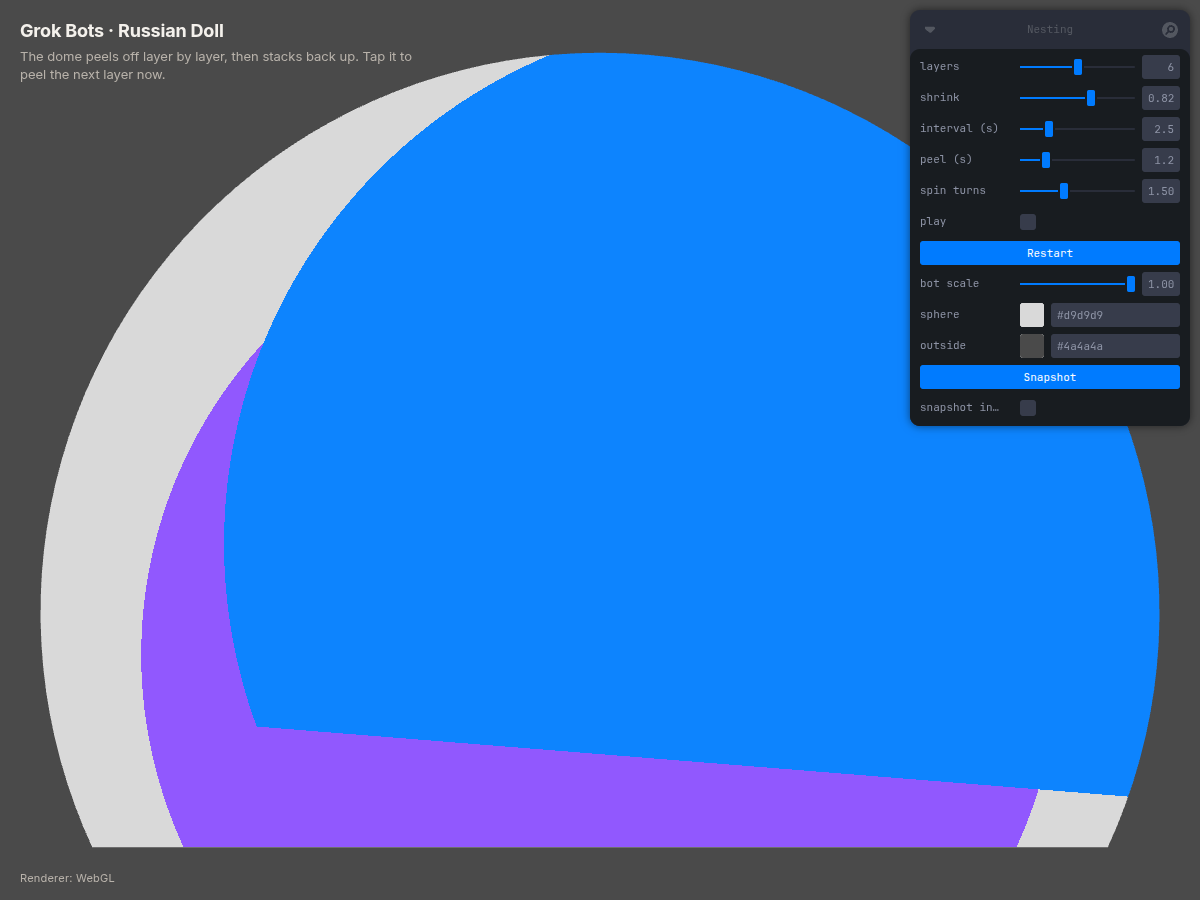
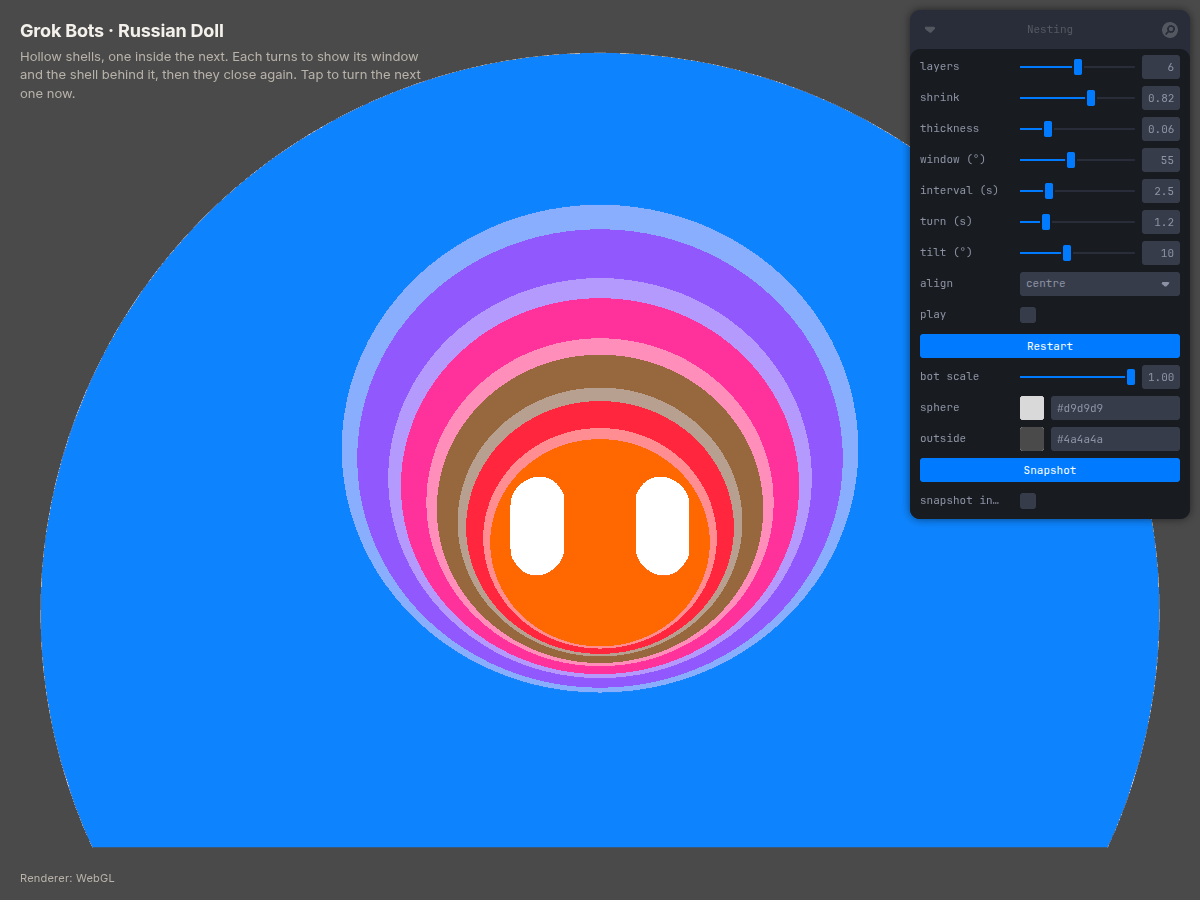
Nesting: README section for the rotating shells (shell build, tones, layers, align, tilt, cascade, Canvas 2D painter, controls, hooks, verification); docs/screenshot-nesting.png = fully open

diff --git a/README.md b/README.md
@@ -13,71 +13,93 @@ and spun.
 Built with Vite, React, TypeScript, three.js, React Three Fiber, drei, Rapier
 (`@react-three/rapier`) and Leva.
 
-## This branch: `nesting` — Russian doll
+## This branch: `nesting` — Russian doll shells
 
 Branched from `racetrack` (head `badf622`). The Sphere, its colours and the
-transparent Snapshot stay; the track and the racers go. One dome bot fills
-the Sphere — its silhouette *is* the Sphere's — and every few seconds the
-outer layer spins, lifts, slides off to the side and fades, revealing the
-same dome smaller and in the next token colour underneath. After the
-smallest one, the layers fly back in reverse order and the loop restarts.
-Live at <https://monish-khara.github.io/grok-bot-physics/nesting/>.
+transparent Snapshot stay; the track and the racers go. A stack of hollow
+dome shells sits one inside the next, the outermost filling the Sphere (its
+silhouette *is* the Sphere's) and a solid dome bot at the core. Each shell has
+a round window on its back. Every few seconds the outermost shell turns 180°
+in place so its window comes round to the camera and you look through it at
+the next shell's face and eyes; then that one turns, and so on to the core.
+Then they close again from the inside out, and the loop restarts. Live at
+<https://monish-khara.github.io/grok-bot-physics/nesting/>.
 
-![Mid-peel: the blue outer dome sliding off, the violet layer beneath it](docs/screenshot-nesting.png)
+![Fully open: every shell turned, windows nested, the orange core at the centre](docs/screenshot-nesting.png)
 
 - **Dome body** (`src/data/bodies.ts`, `dome`): none of the ten toolkit
   shapes is a dome, so this branch adds one — the unit sphere sliced flat at
   `y = CHORD` (`-0.42`, the same cut as `src/sphereShape.ts`), built as a
-  surface of revolution from an analytic profile through the existing
-  `revolve` path (the refit closes the tip with a tangent sphere cap, which
-  for a circle is the circle). Scaled to the Sphere's radius with its base on
-  the Sphere's floor it fills the interior exactly: no gap at the base, no
-  grey rim. Eyes are white pills 0.6 R apart and 0.56 R up, as in the
-  reference; because the surface leans back ~40° there, the pills are
-  stretched to read at the reference's proportions from the front and use a
-  new `upright` eye-frame option so their height axis stays vertical on
-  screen instead of splaying with the surface's own up.
-- **Layers:** `layers` (2–10, default 6) copies of the dome. Layer 0 is
-  `bot scale × Sphere radius` (1 = fills it); layer *i* is scaled by
-  `shrink`ⁱ (default 0.82) about the base centre, so every layer stands on
-  the floor. Colours walk the core token ladder from blue (blue, violet,
+  surface of revolution through the existing `revolve` path. Scaled to the
+  Sphere's radius with its base on the Sphere's floor it fills the interior
+  exactly. Eyes are white pills 0.6 R apart and 0.56 R up; the `upright`
+  eye-frame option keeps their height axis vertical on screen (the
+  surface-normal frame would splay a pair set this high on a sphere).
+- **Shell** (`src/shell.ts`): `shell = dome − erode(dome, thickness) − window`,
+  where the erosion leaves a wall `thickness` (default 0.06 of that shell's
+  outer radius, slider) thick including a floor, and the window is a cone
+  about an axis on the back at eye height, `window` degrees wide (default 55,
+  slider 20–100; above ~100 it would cut into the base). The plan called for
+  marching cubes over that SDF; the shell is built from its parts instead —
+  outer and inner spheres about the window axis, the conical rim of the
+  window, the base disc and the cavity floor, plane-clipped at the chord —
+  because that gives exact surfaces at any wall thickness (a 0.06 R wall is
+  one or two grid cells at a resolution the Canvas 2D fallback can paint),
+  crisp per-part tones, ~19k triangles per shell (`high`) or ~3.4k (`low`),
+  and instant rebuilds when a slider moves. Three flat tones are baked as
+  vertex colours: the token colour on the face, 25% toward white on the rim,
+  25% toward black inside; `MeshBasicMaterial` with `vertexColors`, still
+  unlit. Eyes are the dome's own pills (same outer surface), so they go
+  round the back when a shell turns and the depth test hides them.
+- **Layers:** `layers` (2–10, default 6) with the last one the solid dome.
+  Layer 0 is `bot scale × Sphere radius`; layer *i* is scaled by `shrink`ⁱ
+  (0.82). Colours walk the core token ladder from blue (blue, violet,
   magenta, brown, red, orange, yellow, green, cyan — nine hues, so neighbours
-  never match); eyes are white on every layer. Only two figures ever exist:
-  the layer on show and the one in flight. Inner layers are hidden anyway,
-  and coincident bodies would tie the Canvas 2D depth sort.
-- **Peel loop** (`Nesting` in `src/Scene.tsx`): hold `interval` s (2.5),
-  then peel over `peel` s (1.2, ease-in-out): `spin turns` (1.5) about the
-  vertical axis, slide 0.75 R₀ toward one side (alternating per layer) and
-  lift 0.4 R₀, shrink to 85%, lean 0.22 rad into the slide, and fade — solid
-  for the first 40% of the flight so the layer beneath never shows through
-  early, then a smoothstep to 0. The Sphere stage clips whatever leaves it.
-  After the smallest layer shows for `interval`, the layers come back in
-  reverse order along the same path (0.35 s between them) and the loop
-  restarts. **Tap the dome** to peel the layer on show now. Drag-to-rotate
-  is gone on this branch so the spin reads clearly.
-- **Drawing the layer in flight:** it shares a centre with the layer under
-  it, so it must always win. WebGL draws it in `Figure`'s new `overlay` mode:
-  transparent material, no depth test, `renderOrder` above the opaque body,
-  eyes culled by their surface normal (the body can no longer hide the far
-  pair). Canvas 2D already culls eyes by normal and painter-sorts by depth;
-  the flyer sits 0.5 units in front so the sort is never a tie, and
-  `canvas2d.ts` now fills a transparent material at its opacity
-  (`globalAlpha`). `Figure` takes the opacity as a ref (`fade`) read every
-  frame, so the animation never re-renders React.
-- **Leva:** `layers`, `shrink`, `interval (s)`, `peel (s)`, `spin turns`,
-  `play`, `Restart`, `bot scale`, `sphere`, `outside`, `Snapshot`,
-  `snapshot in tab`. `?play=0` starts paused; `?renderer=canvas2d` forces the
-  fallback.
-- **Test hooks:** `window.__grokNesting()` (mode, layer, time in step, which
-  layers are drawn and the flight progress, every layer's radius),
+  never match); eyes are white on every layer. All layers are drawn (you look
+  into them). `align`: `centre` (default) — every shell shares the dome's
+  sphere centre, like the reference — or `floor`, each standing on the
+  Sphere's floor. `tilt` (0–25°, default 10) pitches the whole stack toward
+  the camera so the rims show; it turns the stack, not the camera, so the
+  Sphere stage and its clipping are untouched.
+- **Cascade** (`Nesting` in `src/Scene.tsx`): hold `interval` s (2.5), then
+  the outermost unturned shell turns 180° about its own vertical axis over
+  `turn` s (1.2, ease-in-out); hold; the next turns; … until only the core
+  faces you. Hold, then the shells turn back from the innermost outwards
+  (0.4 s apart) and the loop restarts. Shells are opaque throughout — no
+  fading. **Tap** any layer to end the current hold now. `play`, `Restart`
+  kept; drag-to-rotate is gone so the turns read clearly.
+- **Canvas 2D** (`src/canvas2d.ts`): a silhouette fill cannot show a window
+  with another shell inside it, so bodies flagged `perTriangle` (the shells;
+  `Figure` sets `userData.perTriangle`) go through a global painter: every
+  front-facing triangle of every shell and of its camera-facing eyes is
+  projected, sorted far to near by view depth (quantised into 200 slabs with
+  the colour as tie-break, so one surface paints as one run even where an
+  occluded surface behind it interleaves in depth) and filled with its own
+  baked tone; ordinary silhouette bodies — the core — are slotted into the
+  same order at their centre depth, so the core paints after the shells'
+  back walls and before their front walls. Eyes get a small forward depth
+  bias so they land on top of the face they sit in. Same-colour runs merge
+  into one `Path2D`, and every triangle is grown half a pixel about its
+  centroid, which removes the anti-aliased hairlines abutting fills would
+  leave. Measured ~5 ms a frame for six layers at 1200×900 (`low` quality,
+  ~6.7k triangles after culling).
+- **Leva:** `layers`, `shrink`, `thickness`, `window (°)`, `interval (s)`,
+  `turn (s)`, `tilt (°)`, `align`, `play`, `Restart`, `bot scale`, `sphere`,
+  `outside`, `Snapshot`, `snapshot in tab`. `?play=0` starts paused;
+  `?renderer=canvas2d` forces the fallback.
+- **Test hooks:** `window.__grokNesting()` (mode `open`/`close`, the layer
+  turning, time in step, every layer's turn 0–1 and radius),
   `__grokNestingSet({ layer, mode, t })` to jump the timeline,
   `__grokBotBounds()` (the Sphere), `__grokScene()`. Verified headless at
   1200×900 with SwiftShader WebGL and with the Canvas 2D renderer: `npm run
-  build` and `tsc --noEmit` clean; the full dome fills the Sphere with eyes
-  visible and no gap at the base; mid-peel shows exactly two layers with the
-  outer drawn over the inner; the smallest layer sits on the floor; a 40 s
-  live run walks peel 0→5, rebuild 5→0 and restarts; a tap during a hold
-  jumps to the peel; no console errors.
+  build` and `tsc --noEmit` clean; at rest the outer shell fills the Sphere
+  with eyes visible; mid-turn (0.65 of the outer shell's turn) the window
+  swings in showing the lighter rim, the darker inside and the next shell's
+  face and eye through it, with the eyes on the turning shell gone round the
+  back; fully open, five nested rims frame the core; no z-fighting; a 45 s
+  live run walks open 0→5, close 4→0 and restarts; a tap during a hold jumps
+  to the turn; `align: floor` and a 110° window checked too; no console
+  errors.
 - **Run alongside the other branches:** worktree
   `~/repos/grok-bot-physics-nesting`, port `4736`:
 
